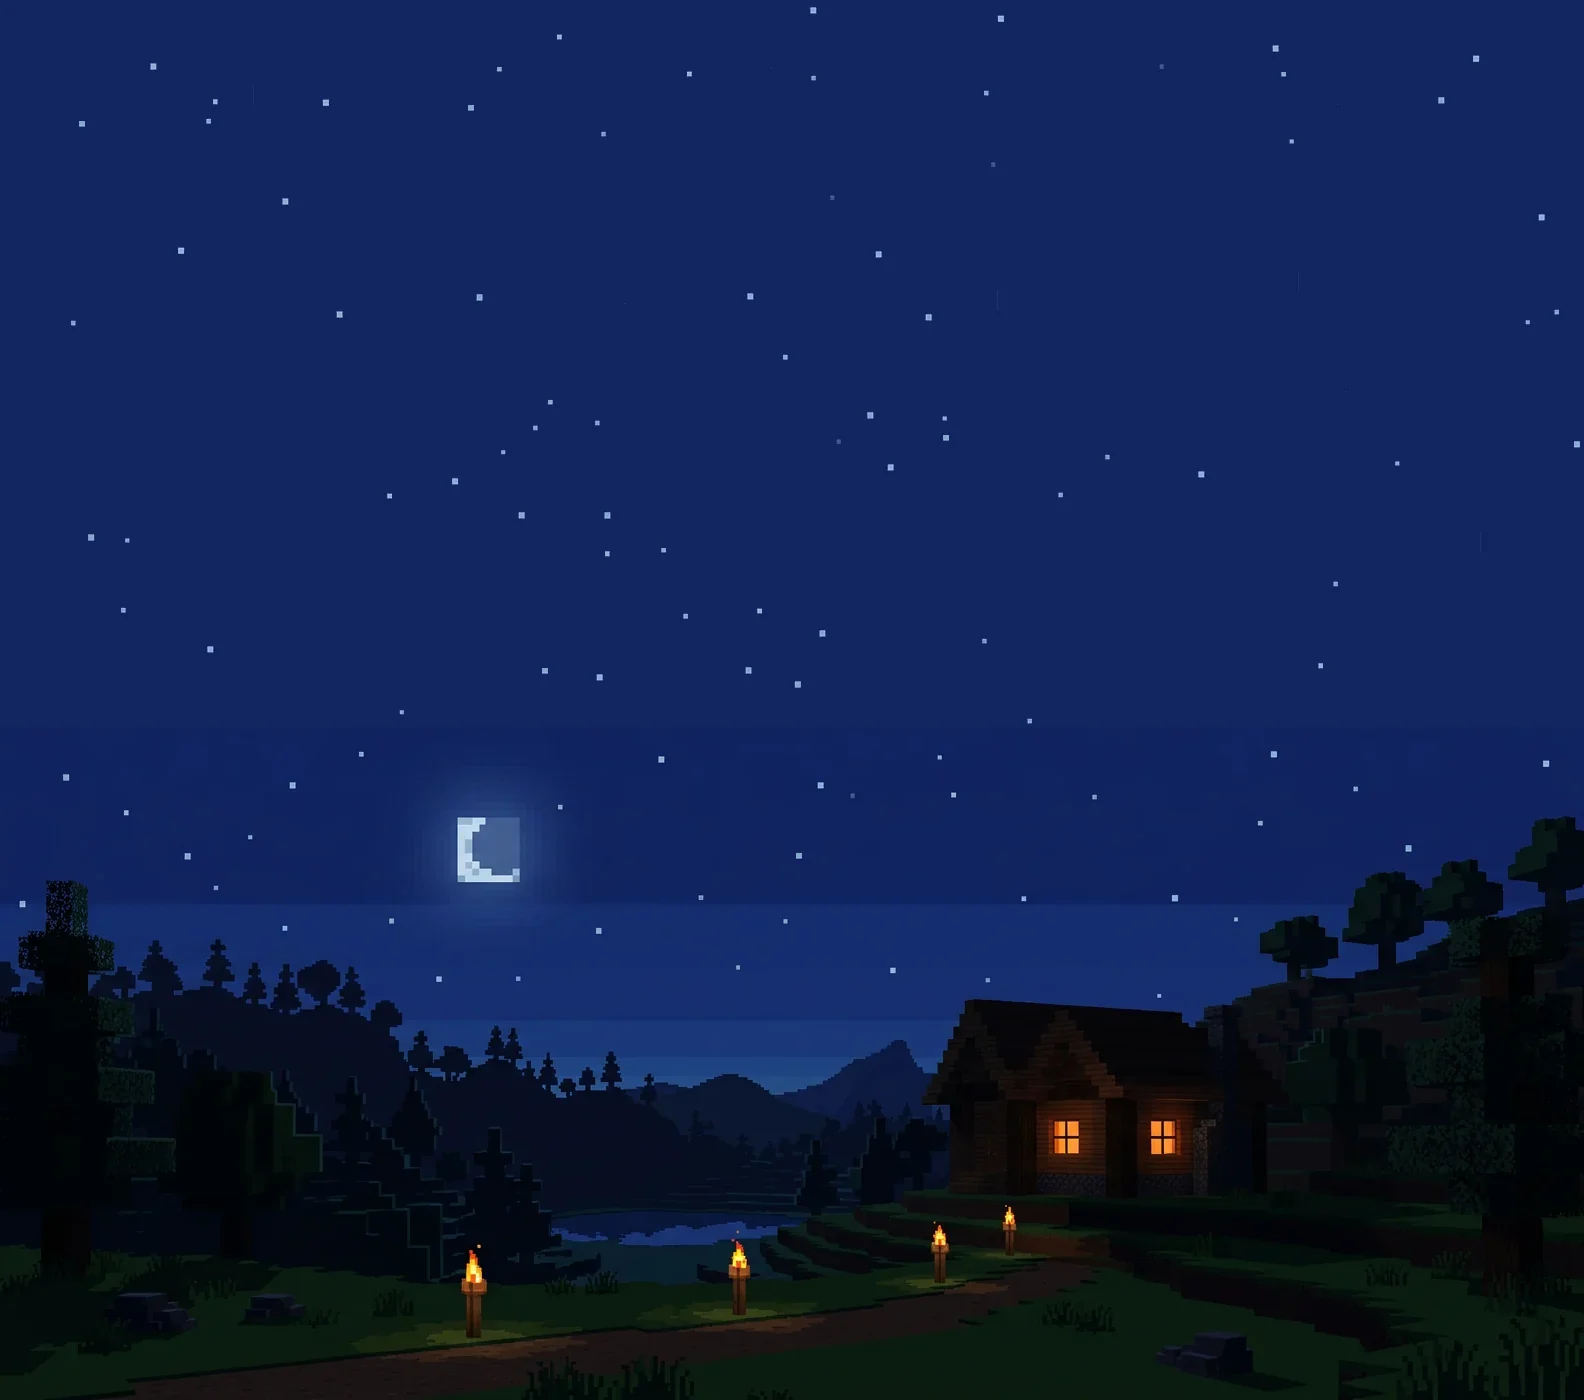
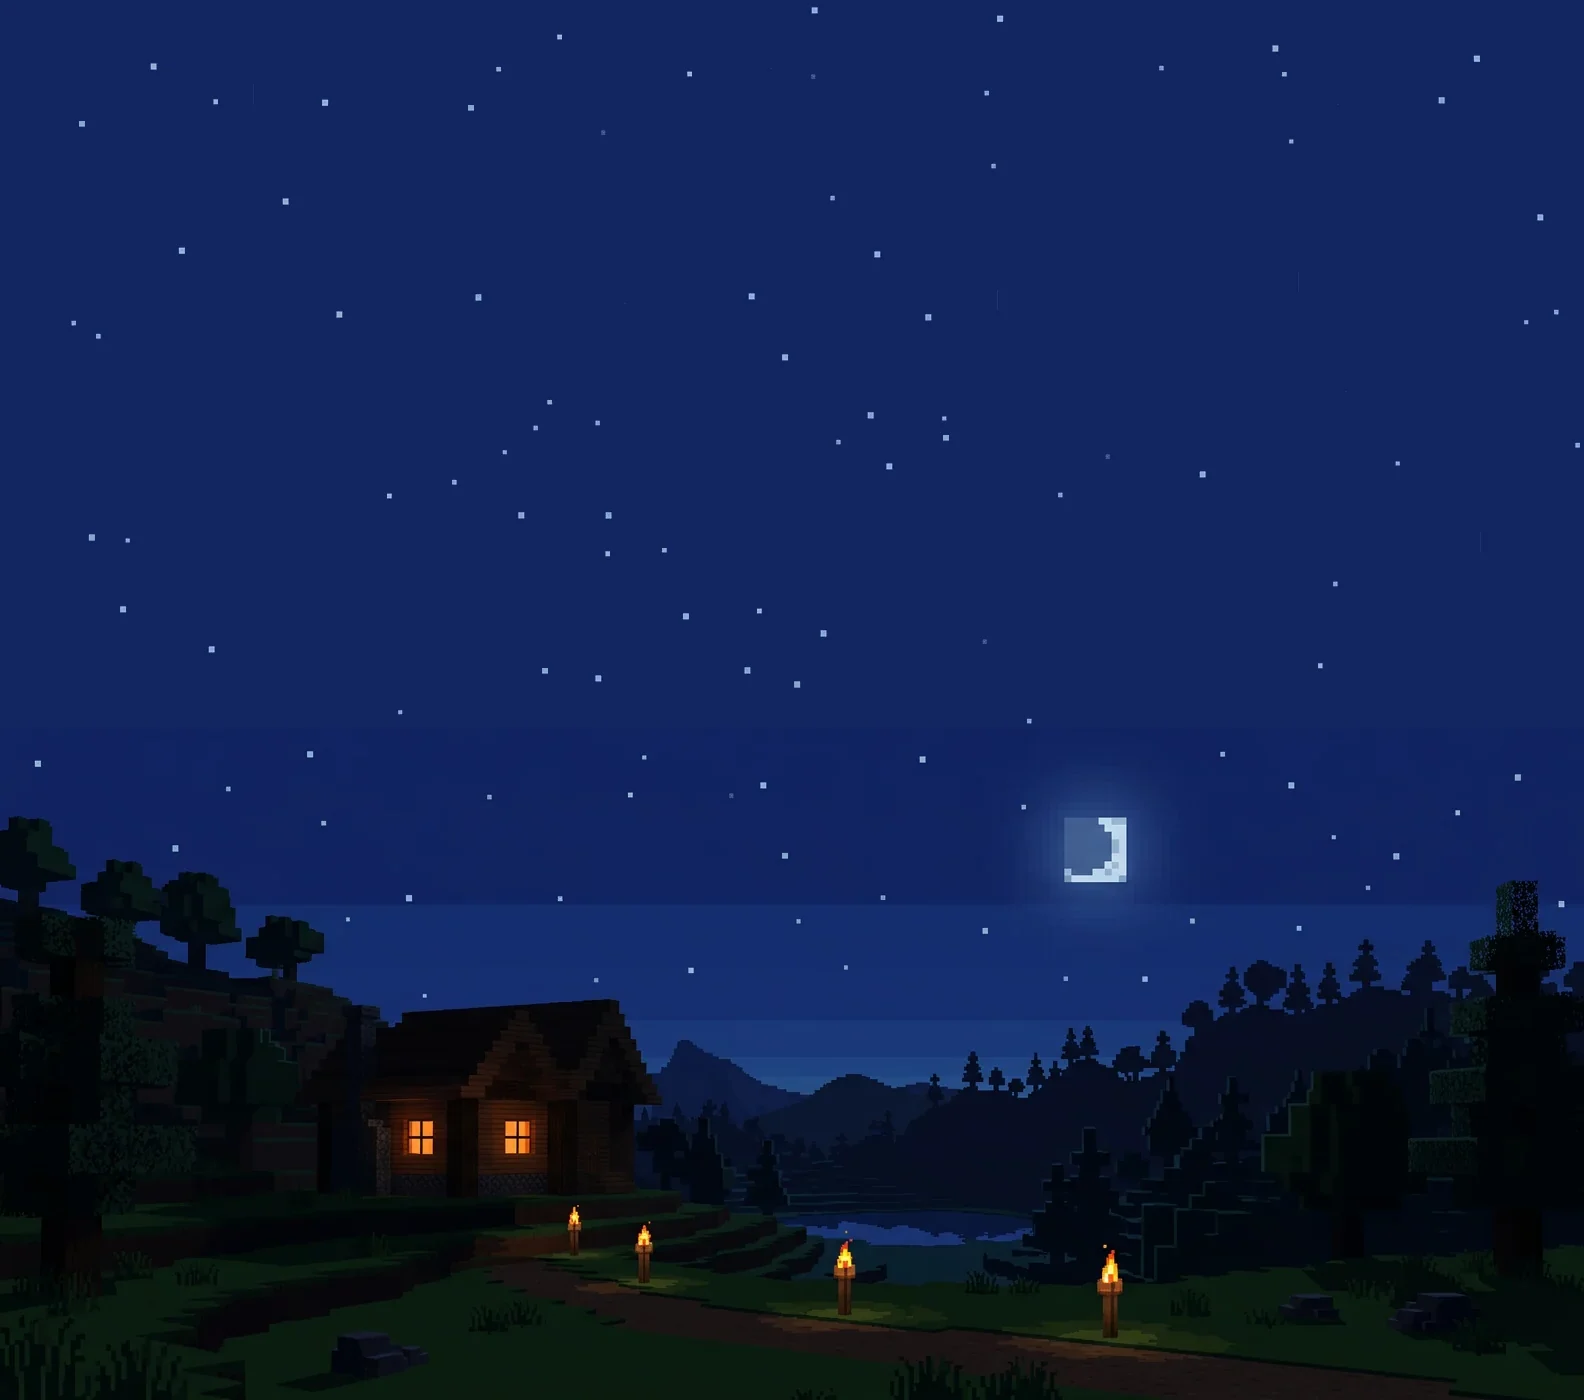
fix(website): moon clear of the hero buttons, phone-sized pills and copy buttons
- The night panorama is mirrored when extended, so the moon sits under the
  screenshot instead of beside the hero buttons.
- Large pills are medium on phones, so the works-with band wraps two or
  three to a row instead of one per line.
- Copy buttons are icon-only on phones (they still turn green when copied),
  leaving the command more room.

diff --git a/website/src/styles/site.css b/website/src/styles/site.css
@@ -472,12 +472,13 @@
     color: #8fd0ff;
     font-weight: 600;
   }
+  /* Icon-only on phones (the button still turns green when copied), labelled from sm. */
   .codebox .copy {
     display: inline-flex;
     align-items: center;
     justify-content: center;
     gap: 0.375rem;
-    min-width: 5.5rem;
+    min-width: 2.75rem;
     padding: 0 0.75rem;
     border: 0;
     border-inline-start: 2px solid #0a0b0c;
@@ -487,6 +488,17 @@
     font-family: var(--font-display);
     font-size: 1.1rem;
     cursor: pointer;
+  }
+  .codebox .copy span {
+    display: none;
+  }
+  @media (min-width: 40rem) {
+    .codebox .copy {
+      min-width: 5.5rem;
+    }
+    .codebox .copy span {
+      display: inline;
+    }
   }
   .codebox .copy:hover {
     background: var(--color-btn-hover);
@@ -653,10 +665,27 @@
     padding: 0.25rem 0.5rem 0.25rem 0.375rem;
     gap: 0.375rem;
   }
+  /* Large pills are medium on phones, so a band of them wraps two or three to a
+     row instead of one per line. */
   .pill-lg {
-    font-size: 1.35rem;
-    padding: 0.5rem 0.875rem 0.5rem 0.625rem;
-    gap: 0.625rem;
+    font-size: 1.2rem;
+    padding: 0.375rem 0.625rem 0.375rem 0.5rem;
+    gap: 0.5rem;
+  }
+  .pill-lg :is(.pill-logo, .pill-icon) {
+    width: 28px !important;
+    height: 28px !important;
+  }
+  @media (min-width: 40rem) {
+    .pill-lg {
+      font-size: 1.35rem;
+      padding: 0.5rem 0.875rem 0.5rem 0.625rem;
+      gap: 0.625rem;
+    }
+    .pill-lg :is(.pill-logo, .pill-icon) {
+      width: 40px !important;
+      height: 40px !important;
+    }
   }
   .pill-logo {
     flex-shrink: 0;

diff --git a/website/scripts/hero-extend.js b/website/scripts/hero-extend.js
@@ -23,7 +23,8 @@ const TALL = 1400;
 // `minSize`: the smallest group of pixels that counts (clouds by day, stars at night).
 const HEROES = [
   { id: 'hero-day', band: 190, seed: 7, minSize: 300 },
-  { id: 'hero-night', band: 140, seed: 11, minSize: 2 },
+  // Mirrored so the moon sits under the screenshot, not beside the hero buttons.
+  { id: 'hero-night', band: 140, seed: 11, minSize: 2, flop: true },
 ];
 // A pixel further than this from the sky colour (RGB distance) is cloud.
 const CLOUD_DISTANCE = 22;
@@ -159,8 +160,11 @@ function scatter(clouds, width, height, density, random) {
   return placed;
 }
 
-for (const { id, band, seed, minSize } of HEROES) {
-  const src = join(dir, `${id}.webp`);
+for (const { id, band, seed, minSize, flop = false } of HEROES) {
+  const src = await sharp(join(dir, `${id}.webp`))
+    .flop(flop)
+    .png()
+    .toBuffer();
   const { data: px, info } = await sharp(src).removeAlpha().raw().toBuffer({ resolveWithObject: true });
   const { width, height } = info;
   const sky = skyColour(px, width, band);
